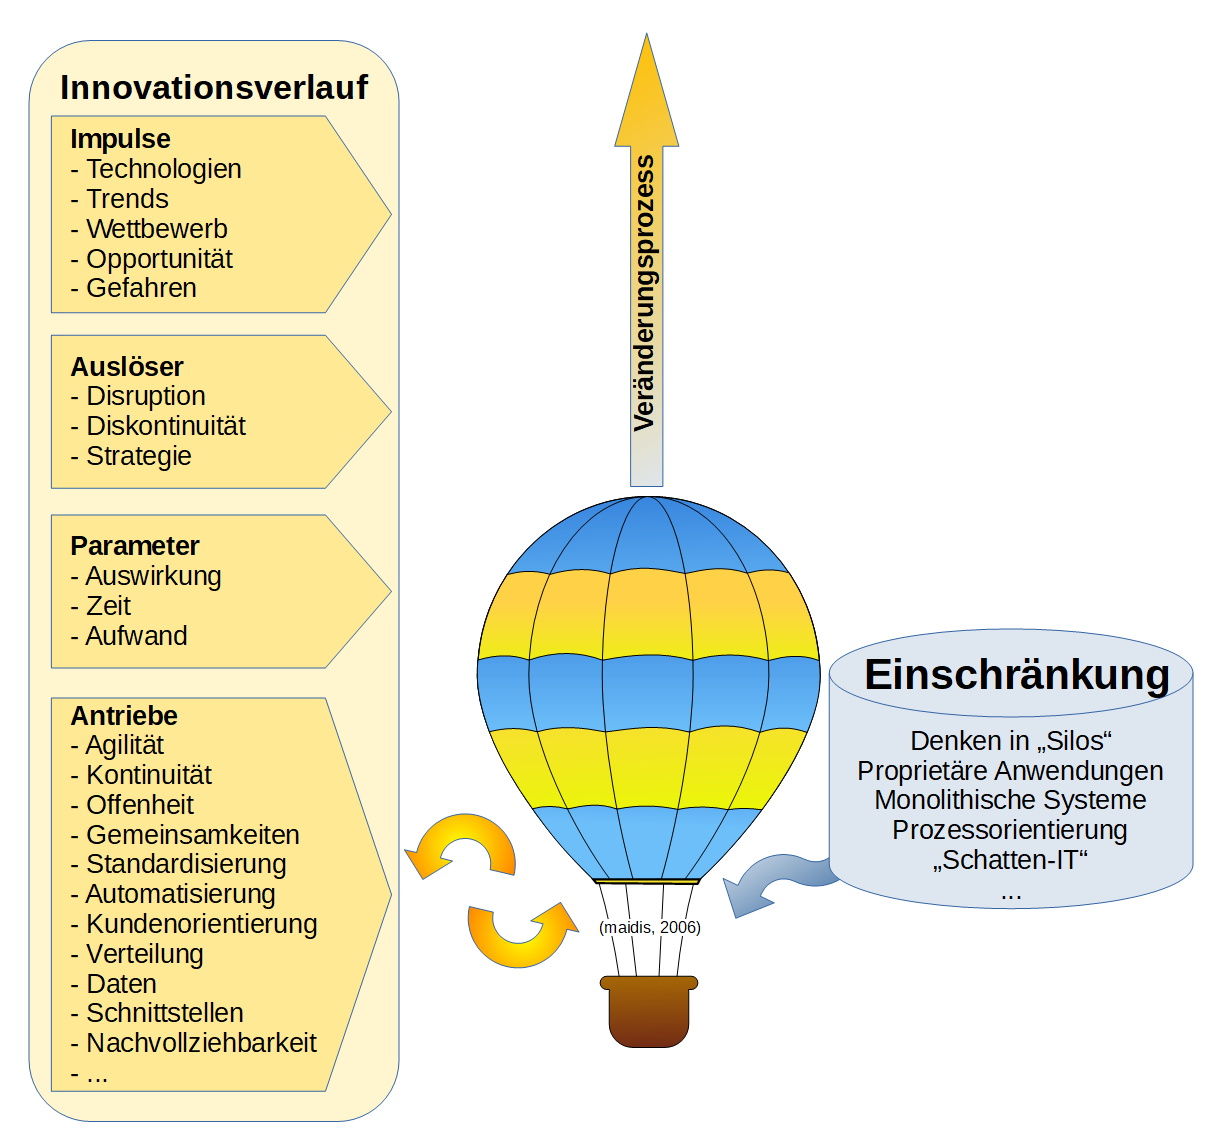
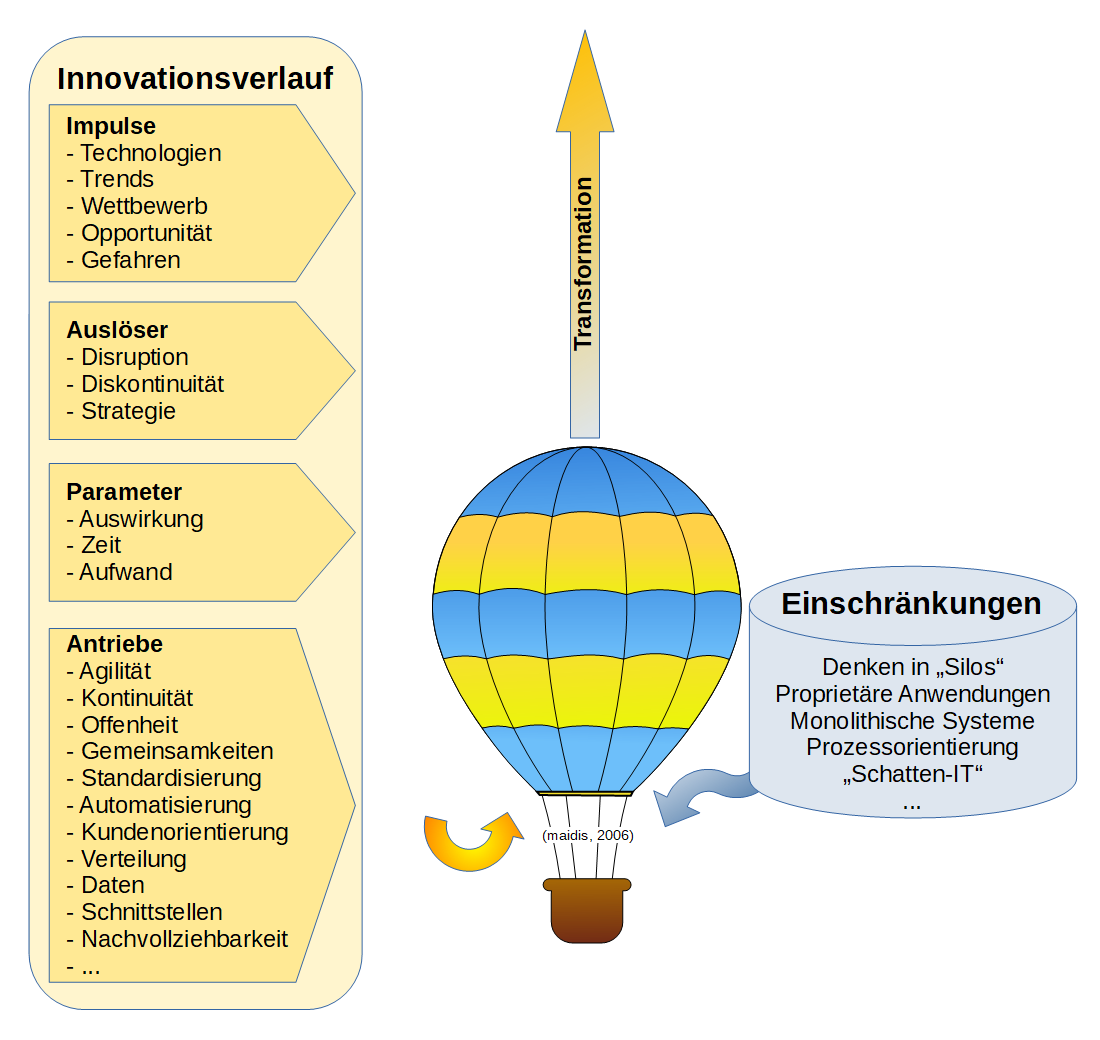
Updates from Overleaf

diff --git a/chapters/examples/chapter04.tex b/chapters/examples/chapter04.tex
@@ -266,7 +266,7 @@ Bedeutende Institute werden zusätzlich von der \ac{EBA} beaufsichtigt \cite{rec
 %
 %
 %
-\section{Veränderungsprozesse}
+\section{Faktoren der Veränderung und Umgang}
 Die Entwicklung von skalierbaren und flexiblen Systemen für die \ac{SEU} von Banken setzt wesentliche Veränderungen in der IT-Architektur, Prozesse und Organisation eines Instituts voraus. Erfolgen diese nicht werden umfangreiche Anpassungen der verwendeter Standardsoftware und Abänderungen von gängigen Lösungen bedingt.
 
 In folge dessen sind die Veränderungsprozesse selbst zu optimieren und die Einschränkungen hierfür zu eliminieren. Kontinuierliche Veränderungen setzen kontinuierliche Prozesse voraus. Standards in der Softwareentwicklung sind agil und verändern sich ständig. Eine flexible IT-Architektur ist erforderlich, um sich diesen Veränderungen anzupassen. Die Umsetzung einer flexiblen IT-Architektur setzt widerum ein flexibles Risikomanagement voraus.
@@ -287,32 +287,38 @@ Die Einschränkungen können bezüglich ihrer Lokalität zusammengefasst werden:
     \item
 \end{itemize}
 
-\subsection{Innovationsverlauf und Faktoren der Veränderungsprozesse}
+\subsection{Innovationsverlauf und Regelung der Transformation}
 \begin{figure}[htbp]
  \centering
  \includegraphics[width=1.0\textwidth]{gfx/digital-transformation-lifecycle-by-selim3.PNG}
- \caption{Innovationsverlauf und Faktoren der Veränderungsprozesse (Quelle: eigene Darstellung, Heißluftballon von \citet{maidis_2006})\label{fig:digit-trans}
+ \caption{Innovationsverlauf und Regelung der Transformation (Quelle: eigene Darstellung, Heißluftballon von \citet{maidis_2006})\label{fig:digit-trans}
  }
 \end{figure}
 
+\paragraph{Innovationsverlauf}
+
+\paragraph{Regelung der Transformation}
+Veränderungen unterliegen kreativen Prozessen \cite[S.14]{Alt2017}, weswegen eine kreative Methode sich für ihre Darstellung eignen kann. 
 Abb, \ref{fig:digit-trans} ist aus der Zusammenfassung von antreibenden und einschränkenden Faktoren entstanden. 
 
-Das in dieser Arbeit hervorgehobene Kontinuitätsprinzip für die  Veränderungsprozesse \cite{Bussmann2006} ist in Anlehnung am DevOps Lebenszyklus \ref{fig:devops} \cite{Alt2017} eingeflossen. Der Begriff der antreibenden und einschränkenden Faktoren generierte in Zusammenhang mit dem Transformationsziel der heutigen IT-Architekturen hin zu einer Cloud-Architektur die Idee von einem Heißluftballon als Metapher für die sich transformierende Organisation.
+Der Begriff der antreibenden und einschränkenden Faktoren generierte in Zusammenhang mit dem Transformationsziel der heutigen IT-Architekturen hin zu einer Cloud-Architektur die Idee von einem Heißluftballon als Metapher für die sich transformierende Organisation.
 
-Während das DevOps Lebenszyklus \cite{Alt2017} sich auf einen kontinuierlichen Prozess für die Optimierung eines IT-Produkts oder IT-Service bezieht, soll diese Abbildung \ref{fig:digit-trans} sich auf einen kontinuierlichen Prozess für die Optimierung der IT-Organisation beziehen.
+Zu antreibenden Faktoren für Veränderungen wurde der Innovationsverlauf ergänzt. Ein Veränderungsprozesse oder Transformation beginnt nicht allein mit dem Treibstoff. Der Prozess setzt einen Funken als Auslöser voraus, um ihn zu beginnen. Dieser kann kontrolliert anhand einer Strategie gesetzt werden oder durch äußere Einflüsse unkontrolliert in Form einer Disruption oder Diskontinuität \cite{Fernandez:2020} des aktuellen Zustands.
+\medskip
+\\
+Die Analogie eines Heißluftballon für die Regelung der Transformation kann folgendermaßen fortgeführt werden:
 
-Zu den Antreibenden Faktoren sind weitere Voraussetzungen für Veränderungsprozesse ergänzt worden. Analog hierzu steht fest, ein Verbrennungsprozess beginnt nicht allein mit dem Treibstoff. Dieser lässt sich mit verschiedenen Parametern vorher abschätzen sowie messen. Der Prozess setzt auch einen Auslöser oder Funken voraus, um ihn zu beginnen. Dieser kann kontrolliert anhand einer Strategie gesetzt werden oder durch äußere Einflüsse unkontrolliert in Form einer Disruption oder Diskontinuität des aktuellen Zustands. Als Metapher für Disruption könnte in Abb. \ref{fig:digit-trans} ein Blitzeinschlag gewählt werden und für Diskontinuität eine Sturzlandung. Der Eintritt des Prozesses kann jedoch ab einem gewissen Punkt vorausgesehen werden durch Impulse. Analog zum Blitzeinschlag wären es die aufbrauenden Gewitterwolken.
-
-Veränderungen unterliegen kreativen Prozessen \cite[S.14]{Alt2017}, weswegen eine kreative Methode sich für ihre Darstellung eignen kann.
-
-Die Veränderungsprozesse bewegen mit genug Antrieben ein statisches Abbild der Organisation, welcher im Korb des Heißluftballoons liegt und einen Zustand der Organisation beschreibt. Der Korb ist in sich geschlossen und beinhaltet den Ablauf und Aufbau des Kerngeschäfts. Dieser trägt zu ihrer Unterstützung viele weitere Funktionen mit, die jeweils die Bewegung der Organisation durch ihr Gewicht exponentiell einschränken.
-
-Ein statisches Abbild mit Prozessbeschreibungen und Ausführung als eine in sich geschlossene Einheit ist aus der Containervirtualisierung von Systemen bekannt. Mit zunehmender Automatisierung der Geschäftsprozesse finden sich auch zunehmende Gemeinsamkeiten zwischen Organisationen und IT-Systemen. Der Vergleich mit einer Container-Anwendung ist daher durchaus berechtigt.
+Die Veränderungsprozesse im Ballon sind dynamisch und bewegen mit genug Antrieb ein statisches Abbild der Organisation, welcher im Korb des Heißluftballon liegt und einen Zustand der Organisation beschreibt. Der Korb ist in sich geschlossen und beinhaltet den Ablauf und Aufbau des Kerngeschäfts. Dieser trägt zu ihrer Unterstützung viele weitere Funktionen mit, die jeweils die Bewegung der Organisation durch ihre Last exponentiell einschränken. Die Bewegung kann auf zwei Arten beschleunigt werden. Der Antrieb wird erhöht oder ein Teil der Einschränkungen abgeworfen. Sie kann nicht gesteuert werden, wodurch externe Einflüsse sie stark beeinflussen können. Das Objekt gleitet in diesem hierbei im Strom einfach mit. 
+\medskip
+\\
+Ein statisches Abbild mit Prozessbeschreibungen und Ausführung als eine in sich geschlossene Einheit ist aus der Containervirtualisierung von Systemen bekannt. Mit zunehmender Automatisierung der Geschäftsprozesse finden sich auch zunehmende Gemeinsamkeiten zwischen Organisationen und IT-Systemen.
+\medskip
+\\
 
 
 \section{Umgang mit kontinuierlichen Veränderungen}
 
-\subsection{Ansätze}
+\subsection{Ansätze für die Veränderung der Rahmenbedingungen}
 
 \paragraph{gemeinsame Funktionen zentralisieren}
 Verallgemeinert könnte der Ansatz aus \cite[S.5]{Gupta:2017}\footnote{Vgl. Kap. \ref{par:effizienzsteig}} auch für die Effizienzsteigerung in anderen Bereichen genutzt werden. Zuerst werden Gemeinsamkeiten identifiziert. Als nächstes werden sie ausgelagert. Das ermöglicht die Einrichtung von gemeinsamen Plattformen, die Synergie erzeugen. Die Einheiten oder Komponenten können sich so auf ihre eigentliche Kernaufgabe konzentrieren. Es könnte hierbei nach der konstruktiven Frage \enquote{Welche Gemeinsamkeiten haben wir?} statt nach der Frage \enquote{Was unterscheidet uns?} aufgebaut werden. Ersteres impliziert schon die Identifizierung von Gemeinsamkeiten, wodurch Redundanzen nicht unentdeckt bleiben und Synergie erzeugt wird. Die zweite Frage impliziert eine Abgrenzung der Einheiten voneinander, wodurch die \enquote{Silos} immer höher werden. Unterschiedliche Bedürfnisse müssen nicht zu unterschiedlichen Technologien führen. 
@@ -341,3 +347,33 @@ Die Change-Prozesse haben sich zuerst selbst zu optimieren, bevor sie den ohnehi
 
 \paragraph{Idee für ein innovatives Risikomanagement}
 Die von Disterer beschriebenen Probleme im Betrieb von Anwendungen durch die mangelnde Beachtung von nichtfunktionalen Anforderungen und die Einführung von Quality Gates \cite{mci/Disterer2011} kann hierbei auf Probleme für die internen Kontrollverfahren ausgeweitet werden. Eine Koordination zwischen Entwicklung und Betrieb sollte das IT-Risikomanagement miteinbeziehen. Dabei darf die Geschwindigkeit des Entwicklungs- oder Integrationsprozesses nicht beeinträchtigt werden. Die Schnelligkeit hat bei der Beantwortung von Compliancefragen eine wichtige Rolle. Entwickler könnten zuerst die Prozesse des IT-Risikomanagements optimieren und automatisieren, um sich Handlungsfreiheit für Innovation und wesentlichen Veränderungen innerhalb der Organisation zu schaffen. Sie sollten in das Risikomanagement integriert werden. Ein Entwickler aus einem anderen Projekt könnte als Compliance- und Risikoverantwortlicher parallel wichtige Compliancefragen auf technischer Ebene schnell überprüfen und vorab beantworten. Dadurch könnte unter Vorbehalt schon mit neuen Technologien und Methoden an Lösungen gearbeitet werden oder Veränderungen in Gang gesetzt werden. Um einer Disruption zu begegnen ist das Risiko von verschwendetem Aufwand in Kauf zu nehmen, um sich eine Anpassungs- und Reaktionsfähigkeit zu schaffen, die geschäftskritisch ist.
+
+\subsection{Digitale Transformation durch kontinuierliche Veränderungsprozesse}
+ 
+Abb. \ref{fig:digit-trans} stellt für den Umgang mit Veränderungen ein erstes Prototyp dar.
+ 
+An vielen Stellen sind die Symptome der Kreditinstitute bekannt. Hierfür ist die mangelnde Effizienz bei der Umsetzung von vorgenommenen Veränderungen die Ursache. Bis Organisationen auf Impulse reagieren und sich anpassen vergeht viel Zeit, die wichtigste Ressource der digitalen Transformation. Als Folge hierauf müssen Standardanwendungen kompatibel zu den überholten Zuständen der Organisation angepasst werden. Änderungen werden in Folge an der falschen Stelle durchgeführt. 
+
+Abb. \ref{fig:digit-trans} zeigt, dass die Antriebe und Einschränkungen erhebliche Einflüsse für die bevorstehende Transformation haben. Die Abbildung beschreibt die Startbedingungen einer bevorstehenden Transformation
+Daher dient sie als Grundlage, um Anforderungen für einen innovationsorientierten Soll-Zustand der Organisation zu erzeugen.
+Gleichzeitig zeigt sie, dass eine bevorstehende Transformation mit Anforderungen und Kenntnisse über die Einschränkungen nur geregelt werden kann und die Richtung nicht absehbar ist. Gas geben ohne zu lenken ist für FinTechs und Start-ups kein großes Problem, da aufgrund ihrer kleinen Größe die Auswirkungen einfacher analysiert werden können.
+
+Für die größeren, etablierten Institute gilt ein erhöhter Schutzbedarf \cite{recht/Bornemann2018} und dadurch zusätzliche Maßnahmen für die Kontrolle von operationellen Risiken \cite{MaRisk:2017, BAIT:2018}.
+
+Für den kontrollierten Umgang mit ständigen Veränderungen in der IT ist ein kontinuierlicher und effizienter Veränderungsprozess gefragt, womit die Transformation kontrollierbar stattfinden kann. Der Prototyp aus Abb. \ref{fig:digit-trans} muss daher in ein reiferes Modell verfeinert werden.
+ 
+ \begin{figure}[htbp]
+ \centering
+ \includegraphics[width=1.0\textwidth]{gfx/digital-transformation-lifecycle-by-selim4.PNG}
+ \caption{Transformations-Lebenszyklus: Kontinuierlicher Veränderungsprozess nach Innovate-Design-Transform inklusive Accumulate (Quelle: eigene Darstellung, Heißluftballon von \citet{maidis_2006})\label{fig:digit-trans-idt}
+ }
+ \end{figure}
+ 
+ \paragraph{Transformations-Lebenszyklus}
+
+
+in Anlehnung am DevOps Lebenszyklus \ref{fig:devops} \cite{Alt2017} wurde ein kontinuierliches Modell ausgearbeitet.
+
+Die Kontinuitätsprinzip von Innovationsverläufen \cite{Bussmann2006} 
+ 
+ Während das DevOps Lebenszyklus \cite{Alt2017} sich auf einen kontinuierlichen Prozess für die Optimierung eines IT-Produkts oder IT-Service bezieht, soll diese Abbildung \ref{fig:digit-trans} sich auf einen kontinuierlichen Prozess für die Optimierung der IT-Organisation beziehen.

diff --git a/chapters/examples/chapter05.tex b/chapters/examples/chapter05.tex
@@ -43,28 +43,6 @@ Die nachfolgenden antreibenden Faktoren betreffen die Fähigkeit der IT zur Umse
 
 \end{enumerate}
 
-
-\subsection{Digitale Transformation durch kontinuierliche Veränderungsprozesse}
- 
-Abb. \ref{fig:digit-trans} stellt für den Umgang mit Veränderungen ein erstes Prototyp dar.
- 
-An vielen Stellen sind die Symptome der Kreditinstitute bekannt (Kap. \ref{section:faktoren-change}). Hierfür ist die mangelnde Effizienz bei der Umsetzung von vorgenommenen Veränderungen die Ursache. Bis Organisationen auf Impulse reagieren und sich anpassen vergeht viel Zeit, die wichtigste Ressource der digitalen Transformation. Als Folge hierauf müssen Standardanwendungen aufwendig auf den überholten Zustand der Organisation angepasst werden. Änderungen werden in Folge an der falschen Stelle durchgeführt. 
-
-Abb. \ref{fig:digit-trans} zeigt, dass die Antriebe und Einschränkungen erhebliche Einflüsse für die bevorstehende Transformation haben. Die Abbildung beschreibt die Startbedingungen einer bevorstehenden Transformation
-Daher dient sie als Grundlage, um Anforderungen für einen innovationsorientierten Soll-Zustand der Organisation zu erzeugen.
-Gleichzeitig zeigt sie, dass eine bevorstehende Transformation nur geregelt werden kann und die Auwirkungen nicht absehbar sind. Hierfür müssen Einschränkungen reduziert oder die Antriebe erhöht werden. Das Modell ist auf FinTechs und Start-ups übertragbar, da aufgrund einer größeren Risikoakzeptanz und geringerem Schutzbedarf ein einfacher Regelprozess ausreicht.
-
-Für die größeren, etablierten Institute gilt ein erhöhter Schutzbedarf \cite{recht/Bornemann2018} und dadurch zusätzliche Maßnahmen für die Kontrolle von operationellen Risiken \cite{MaRisk:2017, BAIT:2018}.
-
-Für den kontrollierten Umgang mit ständigen Veränderungen in der IT ist ein kontinuierlicher und effizienter Veränderungsprozess gefragt, womit die Transformation kontrollierbar stattfinden kann. Der Prototyp aus Abb. \ref{fig:digit-trans} muss daher in ein reiferes Modell verfeinert werden.
- 
- \begin{figure}[htbp]
- \centering
- \includegraphics[width=1.0\textwidth]{gfx/digital-transformation-lifecycle-by-selim4.PNG}
- \caption{Transformations-Lebenszyklus: Kontinuierlicher Veränderungsprozess nach Innovate-Design-Transform inklusive Accumulate (Quelle: eigene Darstellung, Heißluftballon von \citet{maidis_2006})\label{fig:digit-trans-idt}
- }
- \end{figure}
-
 \section{Zusammenfassung und Ausblick}
 Es ergibt sich ein Gesamtbild, dass die aufgeführten Faktoren für Veränderungsprozesse keinen Ablauf oder direkte Handlungsempfehlungen beschreiben. Diese beschreiben \emph{Einflüsse} für Veränderungsprozesse und haben wesentliche Auswirkungen auf ihren Ablauf. Insbesondere die antreibenden Faktoren für Veränderungsprozesse können als ihre fachlichen Anforderungen gesehen werden. Prinzipien aus \emph{DevOps} und \emph{Design-Thinking} helfen dabei die Veränderungsprozesse selbst agil und kontinuierlich anzupassen. 
 
